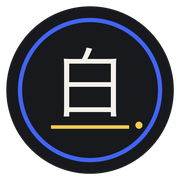
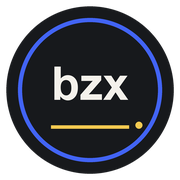
style: use bzx brand monogram

Changed region(s): [[0.2778, 0.25, 0.7222, 0.6667]]

diff --git a/scripts/generate_assets.py b/scripts/generate_assets.py
@@ -62,7 +62,7 @@ def logo():
     draw = ImageDraw.Draw(image)
     draw.ellipse((18 * SCALE, 18 * SCALE, 494 * SCALE, 494 * SCALE), fill=COLORS["ink"])
     draw.ellipse((51 * SCALE, 51 * SCALE, 461 * SCALE, 461 * SCALE), outline=COLORS["blue"], width=12 * SCALE)
-    draw_text(draw, (256, 235), "白", 218, COLORS["paper"], bold=True, cjk=True, anchor="mm")
+    draw_text(draw, (256, 238), "bzx", 132, COLORS["paper"], bold=True, anchor="mm")
     line(draw, [(145, 361), (367, 361)], COLORS["yellow"], 10)
     draw.ellipse((385 * SCALE, 346 * SCALE, 405 * SCALE, 366 * SCALE), fill=COLORS["yellow"])
     final = image.resize((512, 512), Image.Resampling.LANCZOS)
